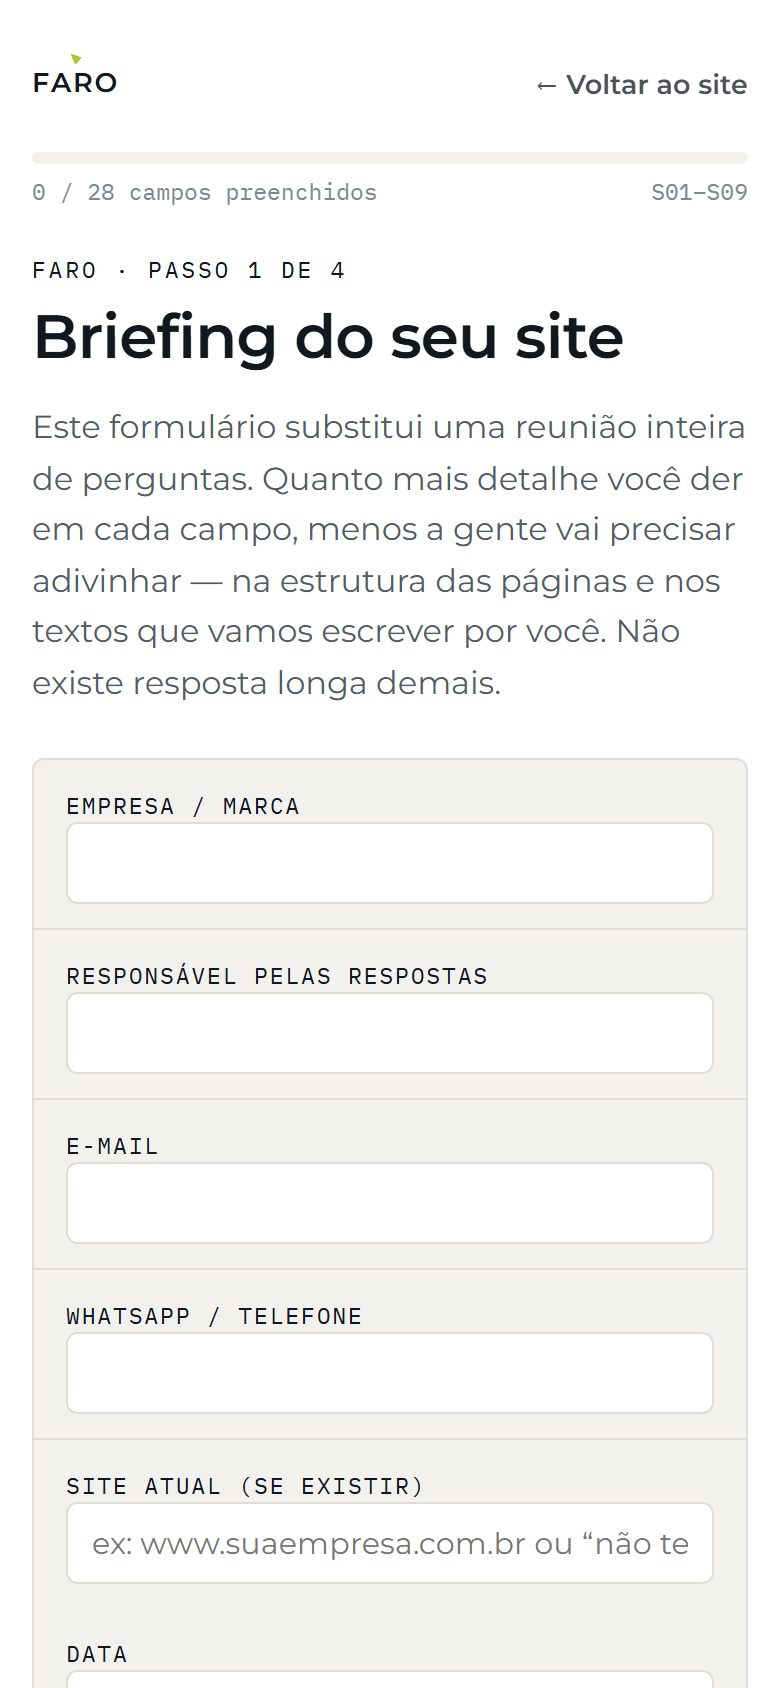
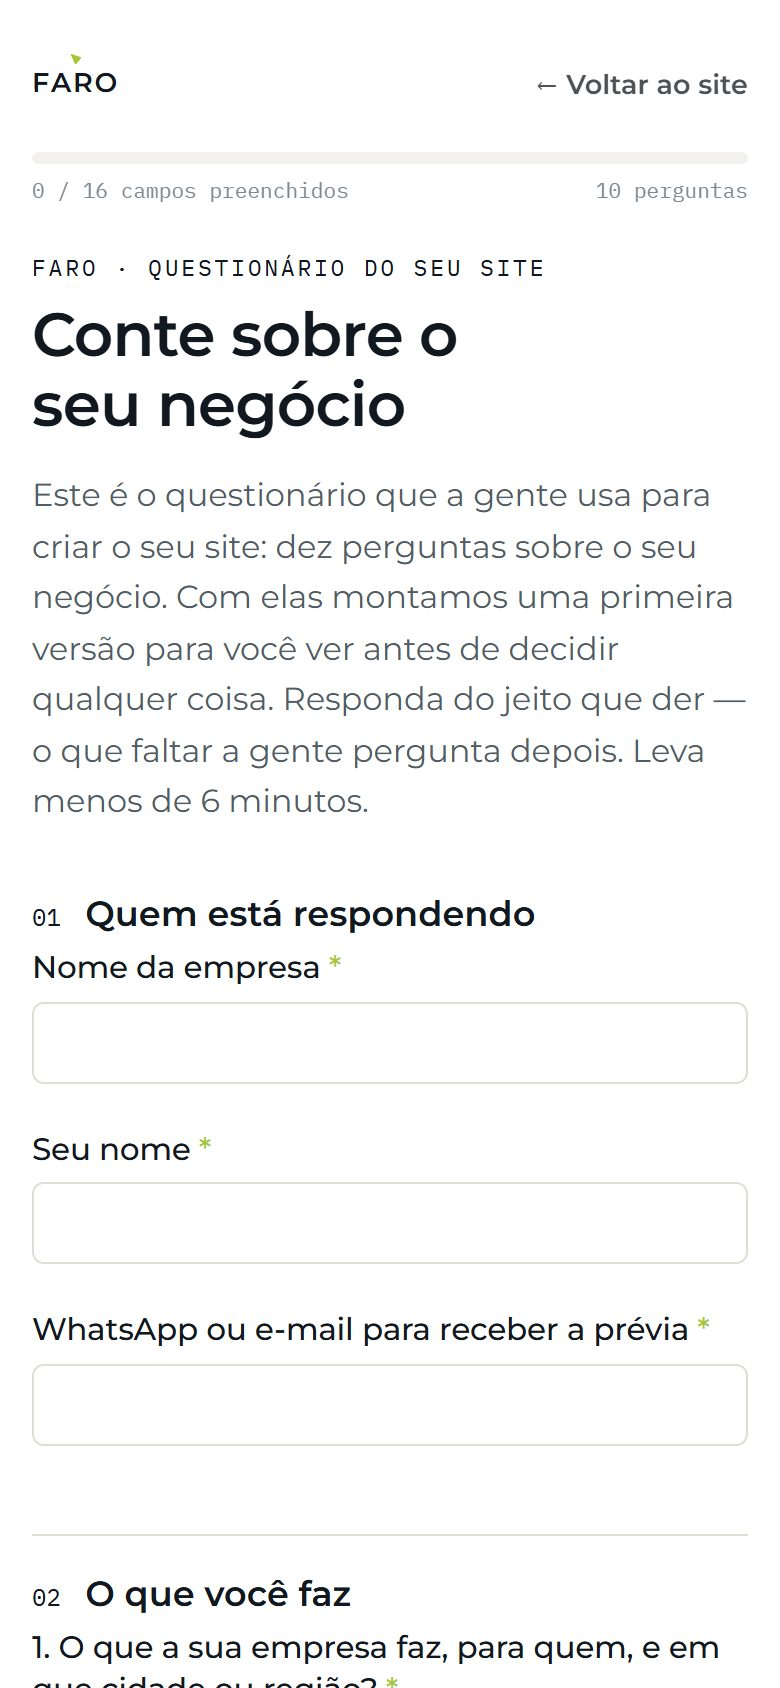
Questionario vira a acao principal, com nome que o cliente entende
- simulador: 'Preencher o questionario do meu site' virou o botao grande; o WhatsApp
  desceu para opcao secundaria ('Tirar duvidas no WhatsApp')
- linha de apoio embaixo do botao diz o que vem depois do clique (10 perguntas, 6 minutos)
- passo 1 do processo e o CTA final falam 'questionario' em vez de 'comecar'
- print do celular do passo 1 atualizado para o formulario novo

diff --git a/index.html b/index.html
@@ -250,7 +250,7 @@
     <section class="section section--paper" id="como-funciona">
       <div class="container">
         <p class="eyebrow">Processo</p>
-        <h2 class="section__title">Das suas respostas ao site no ar em 4 passos.</h2>
+        <h2 class="section__title">Do questionário ao site no ar em 4 passos.</h2>
 
         <ol class="steps steps--v2">
           <li class="step step--visual">
@@ -258,8 +258,8 @@
               <div class="device device--phone device--phone-step"><img src="assets/briefing-mobile.jpg" alt="" width="390" height="844" loading="lazy"></div>
             </div>
             <span class="step__num">1</span>
-            <h3>Suas respostas</h3>
-            <p>Você responde <a href="comecar/">10 perguntas rápidas</a> sobre o seu negócio.</p>
+            <h3>Questionário</h3>
+            <p>Você preenche um <a href="comecar/">questionário de 10 perguntas</a> com os dados do seu negócio — é o que a gente usa para montar o site.</p>
           </li>
           <li class="step step--visual">
             <div class="step__media" aria-hidden="true">
@@ -376,11 +376,14 @@
           </div>
 
           <div class="sim__actions">
-            <a class="btn btn--primary btn--lg" id="simWhats" href="#" target="_blank" rel="noopener">
+            <div class="cta-stack">
+              <a class="btn btn--primary btn--lg" id="simBriefing" href="comecar/">Preencher o questionário do meu site</a>
+              <span class="cta-trigger cta-trigger--ink">10 perguntas sobre o seu negócio. É com elas que a gente monta o site — leva menos de 6 minutos.</span>
+            </div>
+            <a class="btn btn--ghost" id="simWhats" href="#" target="_blank" rel="noopener">
               <svg class="ico" viewBox="0 0 24 24" fill="currentColor" aria-hidden="true"><path d="M12 2a10 10 0 0 0-8.6 15.1L2 22l5-1.3A10 10 0 1 0 12 2zm0 18.2a8.2 8.2 0 0 1-4.2-1.2l-.3-.2-3 .8.8-2.9-.2-.3A8.2 8.2 0 1 1 12 20.2zm4.5-6.1c-.2-.1-1.5-.7-1.7-.8-.2-.1-.4-.1-.6.1l-.8 1c-.1.2-.3.2-.5.1a6.7 6.7 0 0 1-3.3-2.9c-.3-.4.2-.4.7-1.3.1-.2 0-.3 0-.5l-.8-1.8c-.2-.5-.4-.4-.6-.4h-.5a1 1 0 0 0-.7.3 3 3 0 0 0-.9 2.2 5.2 5.2 0 0 0 1.1 2.8 12 12 0 0 0 4.6 4c1.7.7 2.3.8 3.2.7a2.7 2.7 0 0 0 1.8-1.3c.2-.6.2-1.1.2-1.2-.1-.2-.3-.3-.5-.4z"/></svg>
-              Enviar no WhatsApp
+              Tirar dúvidas no WhatsApp
             </a>
-            <a class="btn btn--ghost" id="simBriefing" href="comecar/">Começar</a>
           </div>
         </form>
       </div>
@@ -445,9 +448,9 @@
       </div>
       <div class="container container--narrow cta-final__content">
         <h2 class="section__title">Quer ver como ficaria o site do seu negócio?</h2>
-        <p class="section__sub">Responda 10 perguntas e receba uma proposta fechada. Ou chame no WhatsApp e tire suas dúvidas primeiro.</p>
+        <p class="section__sub">Preencha o questionário do seu site: 10 perguntas sobre o seu negócio e você recebe uma proposta fechada. Ou chame no WhatsApp e tire suas dúvidas primeiro.</p>
         <div class="hero__actions hero__actions--center">
-          <a href="comecar/" class="btn btn--primary btn--lg">Começar</a>
+          <a href="comecar/" class="btn btn--primary btn--lg">Preencher o questionário do meu site</a>
           <a href="https://wa.me/5533987395357?text=Ol%C3%A1!%20Vim%20pelo%20site%20da%20Faro%20e%20quero%20saber%20mais%20sobre%20a%20cria%C3%A7%C3%A3o%20de%20um%20site." class="btn btn--outline btn--lg" target="_blank" rel="noopener">Chamar no WhatsApp</a>
         </div>
       </div>

diff --git a/comecar/index.html b/comecar/index.html
@@ -4,19 +4,19 @@
 <meta charset="UTF-8">
 <meta name="viewport" content="width=device-width, initial-scale=1">
 <title>Faro — Conte sobre o seu negócio</title>
-<meta name="description" content="Dez perguntas. Com elas a gente monta uma primeira versão do seu site para você ver antes de decidir qualquer coisa.">
+<meta name="description" content="Este é o questionário que a gente usa para criar o seu site: dez perguntas sobre o seu negócio. Com elas montamos uma primeira versão para você ver antes de decidir qualquer coisa.">
 
 <meta property="og:type" content="website">
 <link rel="icon" type="image/svg+xml" href="../assets/favicon.svg">
 <meta property="og:site_name" content="Faro">
 <meta property="og:title" content="Faro — Conte sobre o seu negócio">
-<meta property="og:description" content="Dez perguntas. Com elas a gente monta uma primeira versão do seu site para você ver antes de decidir qualquer coisa.">
+<meta property="og:description" content="Este é o questionário que a gente usa para criar o seu site: dez perguntas sobre o seu negócio. Com elas montamos uma primeira versão para você ver antes de decidir qualquer coisa.">
 
 <meta property="og:image" content="https://faroagencia.vercel.app/assets/og.jpg">
 <meta name="twitter:card" content="summary_large_image">
 <meta name="twitter:image" content="https://faroagencia.vercel.app/assets/og.jpg">
 <meta name="twitter:title" content="Faro — Conte sobre o seu negócio">
-<meta name="twitter:description" content="Dez perguntas. Com elas a gente monta uma primeira versão do seu site para você ver antes de decidir qualquer coisa.">
+<meta name="twitter:description" content="Este é o questionário que a gente usa para criar o seu site: dez perguntas sobre o seu negócio. Com elas montamos uma primeira versão para você ver antes de decidir qualquer coisa.">
 
 <link rel="preconnect" href="https://fonts.googleapis.com">
 <link rel="preconnect" href="https://fonts.gstatic.com" crossorigin>
@@ -49,10 +49,10 @@
 
 <main class="sheet">
   <header class="intro">
-    <div class="eyebrow">Faro · primeiro passo</div>
+    <div class="eyebrow">Faro · questionário do seu site</div>
     <div class="pacote" id="pacote" hidden><span class="label">Pacote simulado</span><strong id="pacoteTexto"></strong></div>
     <h1 class="title">Conte sobre o seu negócio</h1>
-    <p class="lede">Dez perguntas. Com elas a gente monta uma primeira versão do seu site para você ver antes de decidir qualquer coisa. Responda do jeito que der — o que faltar a gente pergunta depois. Leva menos de 6 minutos.</p>
+    <p class="lede">Este é o questionário que a gente usa para criar o seu site: dez perguntas sobre o seu negócio. Com elas montamos uma primeira versão para você ver antes de decidir qualquer coisa. Responda do jeito que der — o que faltar a gente pergunta depois. Leva menos de 6 minutos.</p>
   </header>
 
   <form id="briefForm" data-brief data-lang="pt" data-kind="rapido"

diff --git a/styles.css b/styles.css
@@ -119,6 +119,7 @@ strong { font-weight: 700; }
 
 .cta-stack { display: flex; flex-direction: column; align-items: flex-start; gap: 8px; }
 .cta-trigger { font-size: 13px; color: rgba(255,255,255,0.6); padding-left: 6px; }
+.cta-trigger--ink { color: var(--gray); line-height: 1.45; padding-left: 2px; }
 
 /* ---------- Header ---------- */
 .header {
@@ -460,7 +461,8 @@ strong { font-weight: 700; }
 .sim__note { font-size: 12px; color: var(--gray); margin-top: 10px; }
 
 .sim__actions { display: flex; flex-wrap: wrap; gap: 12px; margin-top: 22px; }
-.sim__actions .btn--primary { flex: 1 1 auto; }
+.sim__actions .cta-stack { flex: 1 1 280px; }
+.sim__actions .cta-stack .btn { width: 100%; }
 
 /* ---------- FAQ ---------- */
 .faq { display: grid; gap: 10px; margin-top: 30px; }
